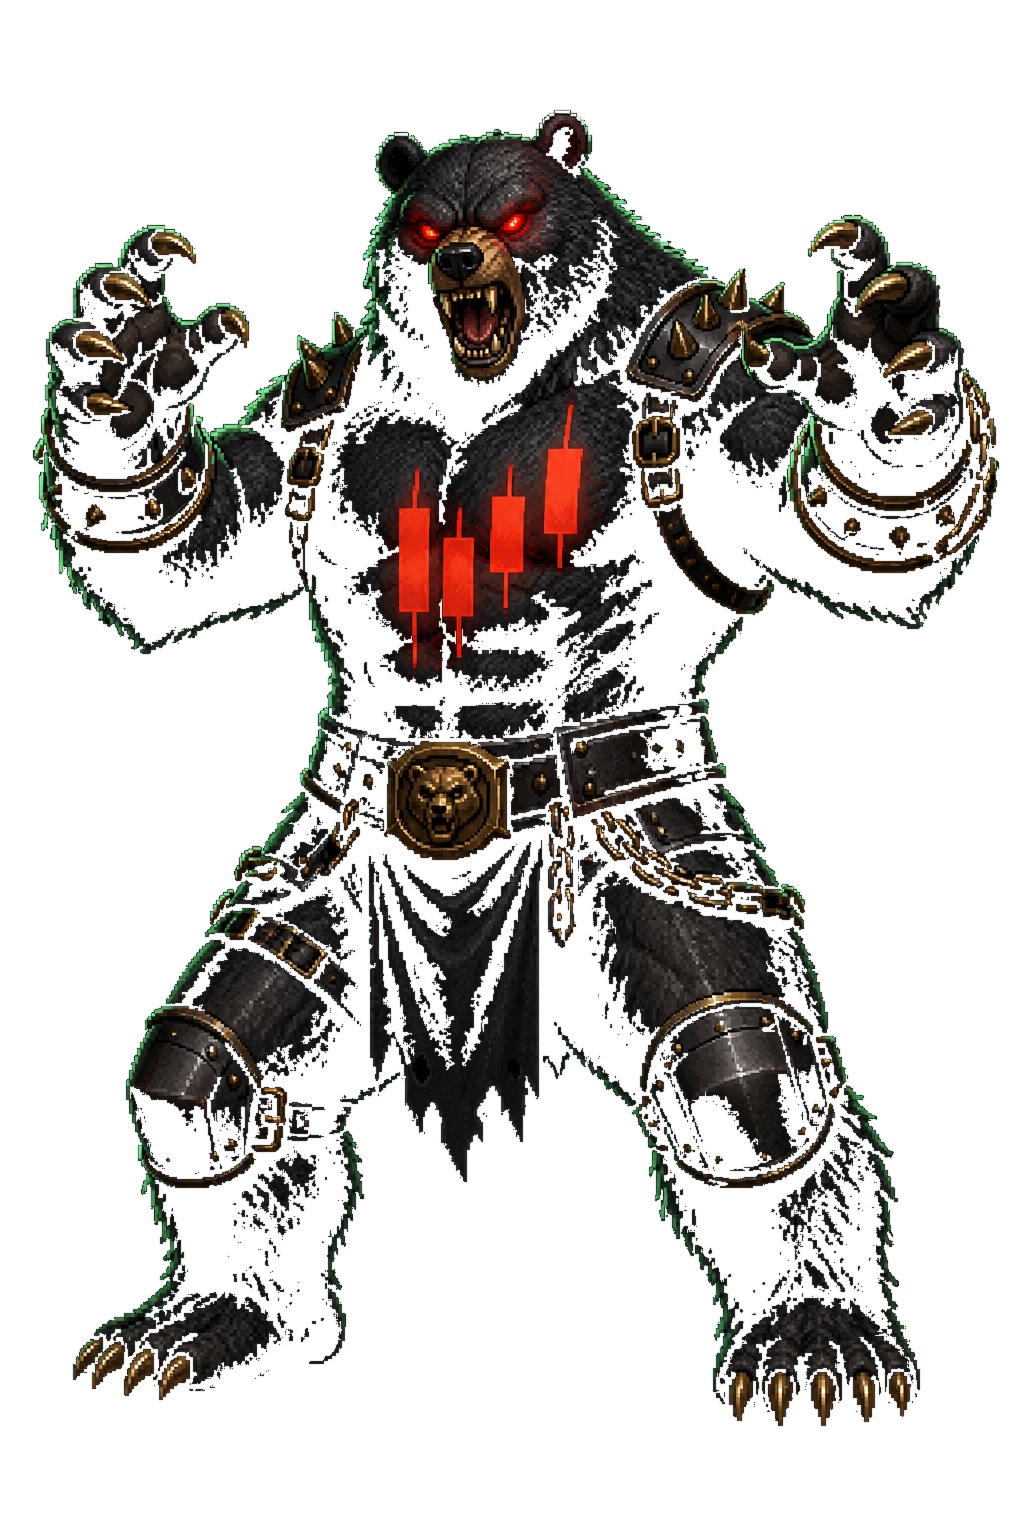
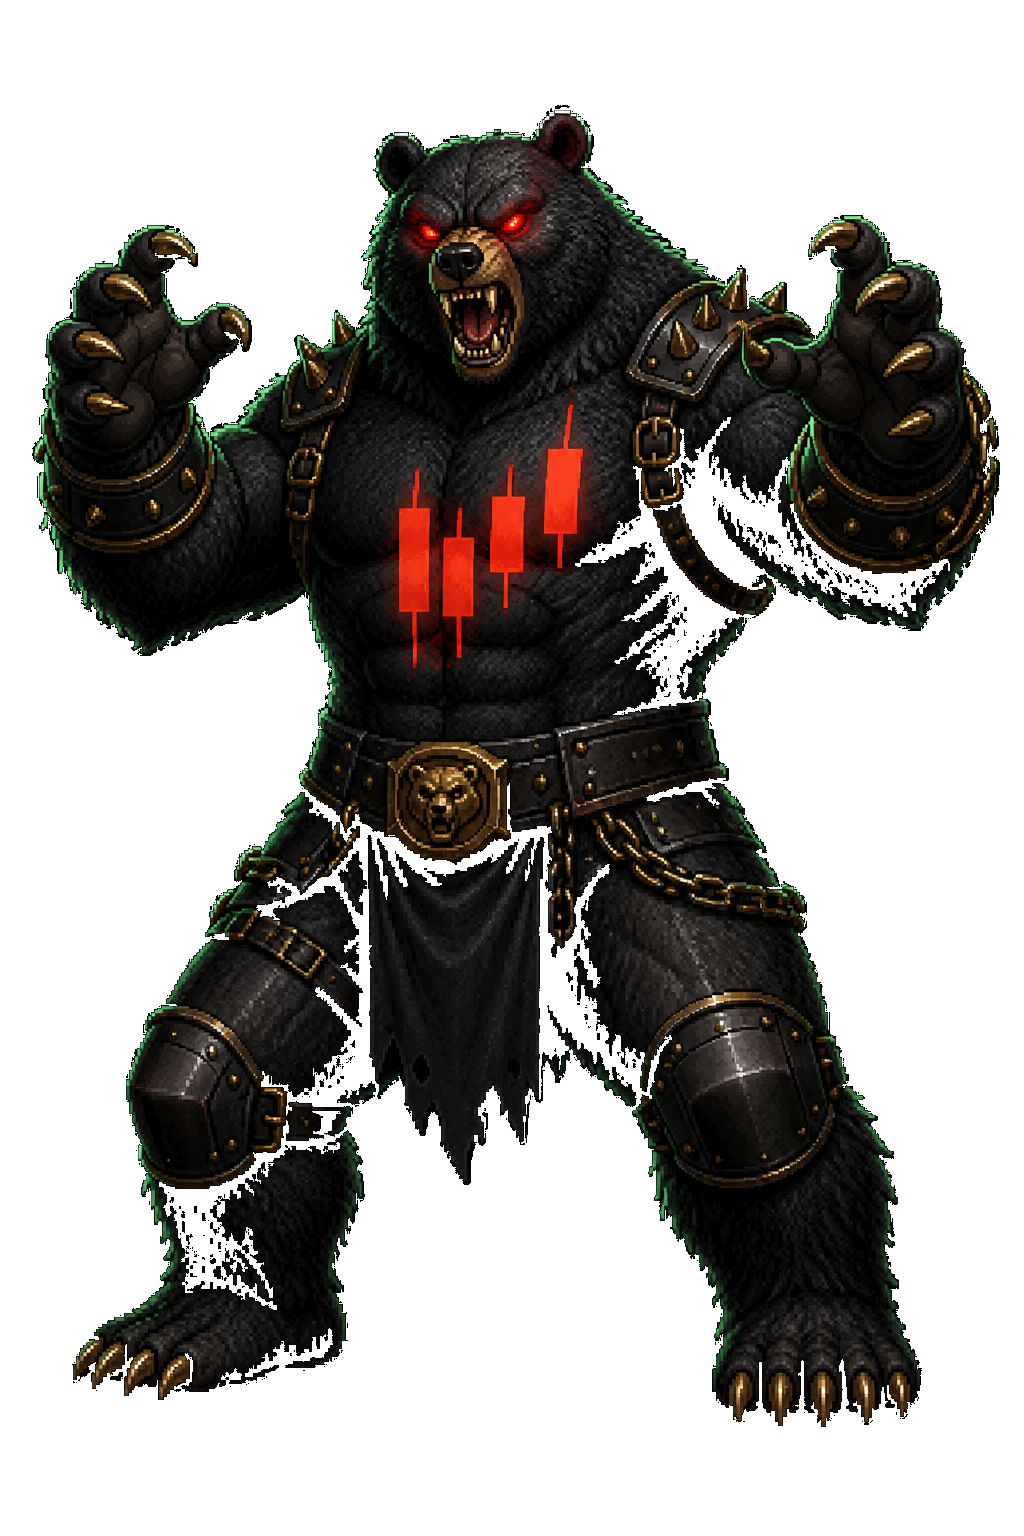
Fix RobinCity enemy sprites

diff --git a/assets/game/robin-fight.js b/assets/game/robin-fight.js
@@ -25,8 +25,8 @@ const SUBMIT_SCORE_FUNCTION = "submit-robin-score";
 const assets = {
   background: loadImage("../assets/game/alley-stage.png"),
   robinman: loadImage("../assets/game/robinman-player-clean.png"),
-  villains: loadImage("../assets/game/villains-bear-market.png"),
-  bear: loadImage("../assets/game/bear-market-brute.png"),
+  villains: loadImage("../assets/game/villains-bear-market.png?v=opacity-facing-fix"),
+  bear: loadImage("../assets/game/bear-market-brute.png?v=opacity-facing-fix"),
   boss: loadImage("../assets/game/boss-v2.png")
 };
 
@@ -855,6 +855,7 @@ function drawPlayer(player) {
 function drawEnemy(enemy) {
   ctx.save();
   if (enemy.hitTimer > 0) ctx.filter = "brightness(1.8)";
+  const spriteFacing = enemy.kind === "boss" ? enemy.facing : -enemy.facing;
   const attackDuration = enemy.kind === "bear" ? 0.34 : 0.22;
   const attackLunge = enemy.attackAnim > 0
     ? enemy.facing * (enemy.kind === "bear" ? 34 : 22) * Math.sin((enemy.attackAnim / attackDuration) * Math.PI)
@@ -873,14 +874,14 @@ function drawEnemy(enemy) {
     if (img.complete) {
       const dw = enemy.w * 1.6;
       const dh = enemy.h * 1.6;
-      drawFacingImage(img, 0, 0, img.width, img.height, enemy.x - 92 + attackLunge + walkStep, enemy.y - dh + 138, dw, dh, enemy.facing, defendScaleX, defendScaleY, rotation);
+      drawFacingImage(img, 0, 0, img.width, img.height, enemy.x - 92 + attackLunge + walkStep, enemy.y - dh + 138, dw, dh, spriteFacing, defendScaleX, defendScaleY, rotation);
     }
   } else if (enemy.kind === "bear") {
     const img = assets.bear;
     if (img.complete) {
       const dw = enemy.w * 1.55;
       const dh = enemy.h * 1.55;
-      drawFacingImage(img, 0, 0, img.width, img.height, enemy.x - 74 + attackLunge + walkStep, enemy.y - dh + 126, dw, dh, enemy.facing, defendScaleX, defendScaleY, rotation);
+      drawFacingImage(img, 0, 0, img.width, img.height, enemy.x - 74 + attackLunge + walkStep, enemy.y - dh + 126, dw, dh, spriteFacing, defendScaleX, defendScaleY, rotation);
     }
   } else {
     const sheet = assets.villains;
@@ -889,7 +890,7 @@ function drawEnemy(enemy) {
       const sh = sheet.height;
       const dw = enemy.w * 1.74;
       const dh = enemy.h * 1.74;
-      drawFacingImage(sheet, enemy.frame * sw, 0, sw, sh, enemy.x - 50 + attackLunge + walkStep, enemy.y - dh + 110, dw, dh, enemy.facing, defendScaleX, defendScaleY, rotation);
+      drawFacingImage(sheet, enemy.frame * sw, 0, sw, sh, enemy.x - 50 + attackLunge + walkStep, enemy.y - dh + 110, dw, dh, spriteFacing, defendScaleX, defendScaleY, rotation);
     }
   }
 

diff --git a/pages/robin-fight.html b/pages/robin-fight.html
@@ -51,7 +51,7 @@
     </section>
   </main>
   <script src="https://cdn.jsdelivr.net/npm/@supabase/supabase-js@2"></script>
-  <script src="../assets/game/robin-fight-config.js?v=bear-market-v1"></script>
-  <script src="../assets/game/robin-fight.js?v=bear-market-v1"></script>
+  <script src="../assets/game/robin-fight-config.js?v=bear-market-v2"></script>
+  <script src="../assets/game/robin-fight.js?v=bear-market-v2"></script>
 </body>
 </html>
